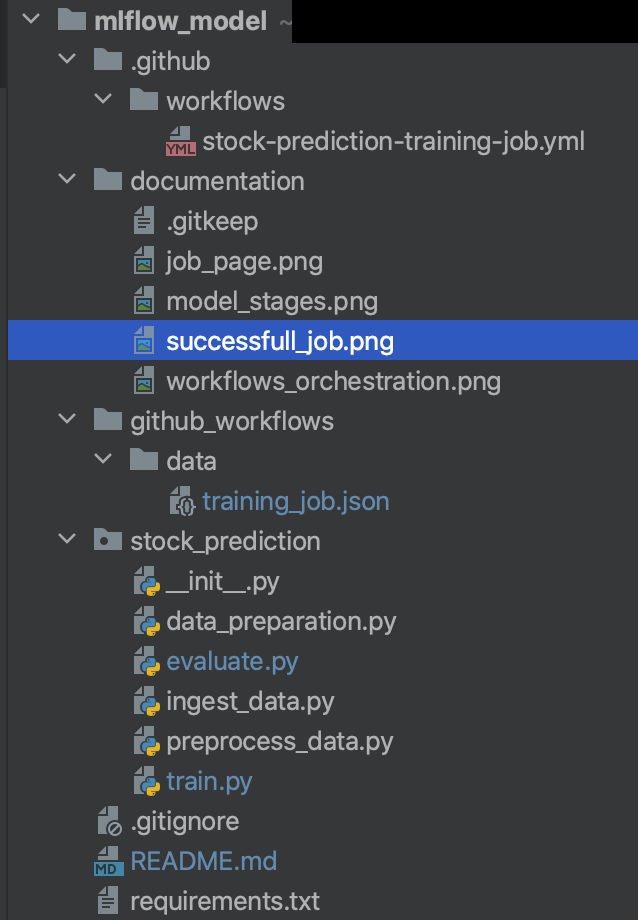
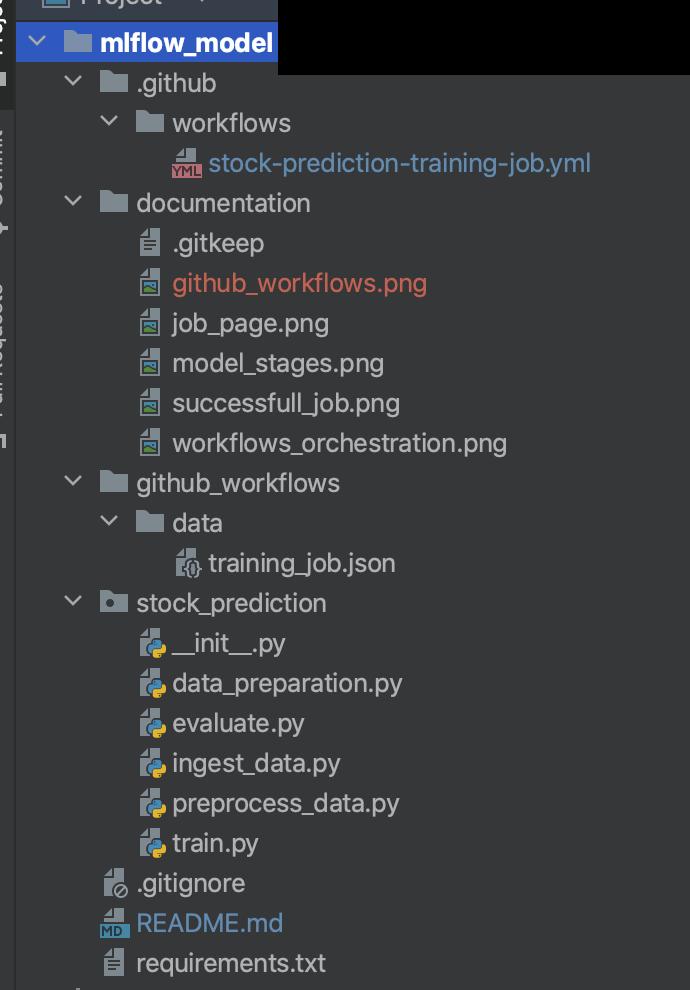
Included description for github workflows

diff --git a/README.md b/README.md
@@ -13,7 +13,7 @@ The entire code is arranged as per the directory structure shared.
 ![Directory_Structure](documentation/directory_structure.png)
 
 ---
-### Model Description
+### Model Stages 
 
 Model is a simple binary classification time series problem where based on the value given for 
 14 days , 15th day stock value is predicted to be either high or low. 
@@ -26,6 +26,22 @@ Training pipeline consists of following stages :
 `data_preparations.py` is a helper class here. Model code is kept under folder `stock_prediction`
 
 ![Model Stages](documentation/model_stages.png)
+
+---
+
+### Workflow Stages 
+
+Github Worflow for training pipeline is divided into two stages . training and register. Register stage is having an environment based approval gate defined. 
+The idea behind this was that the `training` stage would launch a databricks job with tasks including:
+
+ingest_data -> data_preprocess -> train -> evaluate
+
+We expect in actual scenario evaluate to be a stage where the best training results are shared across with stakeholders and then based on manual approval , register stage is run which registers the model in mlflow registry.
+Register step is not included as a part of this training pipeline.
+
+
+![github_workflows](documentation/github_workflows.png)
+
 
 ---
 
